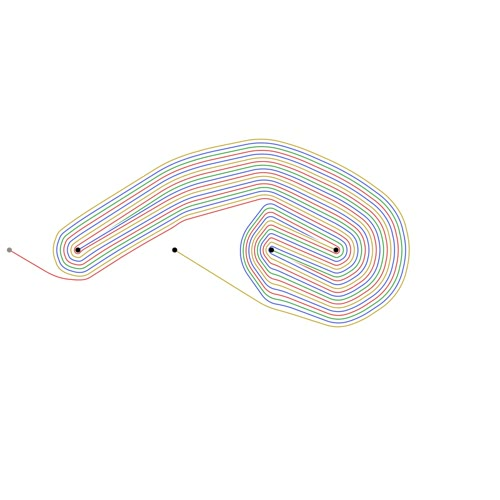
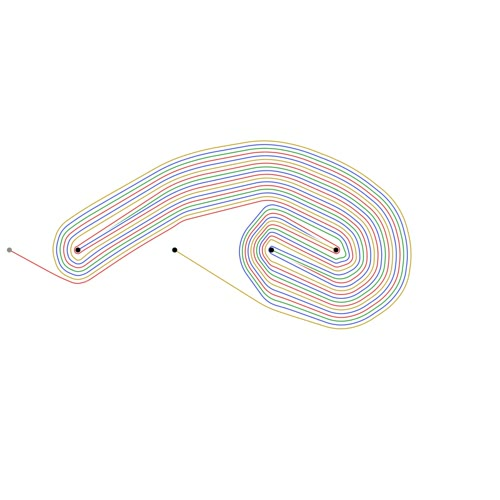
Bossage des rubans : sinus de traversée mesuré à distance
Dans un éventail de triangles très minces, le sinus mesuré avec les voisins
immédiats était bruité et sous-estimé : l'écart le long de l'arête gonflait et
les brins faisaient des marches. Film.tend(..., portee_sinus) le mesure avec
des points du brin à au moins cette distance (3 × l'écart dans Arcs.py) ;
alignement inchangé. Film des méandres inchangé (option à 0 par défaut).
Films et aperçus des arcs régénérés.

Changed region(s): [[0.03, 0.27, 0.84, 0.66]]

diff --git a/programmes/Triangulation.py b/programmes/Triangulation.py
@@ -264,7 +264,7 @@ class Film:
         i1, i2 = haut[0], haut[-1]
         return [(range(1, i1), passage(i1 - 1, i1)), (range(i2 + 1, len(pts) - 1), passage(i2 + 1, i2))]
 
-    def tend(self, taux, ecart, degagement=None):
+    def tend(self, taux, ecart, degagement=None, portee_sinus=0):
         '''Un pas de tension des lacets. Chaque point est tiré, d'une fraction taux du chemin, vers sa cible sur son
         arête : l'endroit où ses deux voisins sont alignés avec lui (le brin se tend). Puis, arête par arête,
         les points gardent leur ordre et restent à `ecart` pixels les uns des autres perpendiculairement aux brins
@@ -272,11 +272,16 @@ class Film:
         défaut ecart) pixels des sommets (projection d'une régression monotone bornée), moins si l'arête est trop
         courte.
         Les brins se tassent donc à écart fixe là où ils sont tirés, près des trous, et laissent du vide au-delà ;
-        l'ordre sur chaque arête ne change pas, donc aucun croisement.'''
+        l'ordre sur chaque arête ne change pas, donc aucun croisement.
+        portee_sinus : si elle est positive, le sinus de l'angle de traversée est mesuré avec les premiers points du
+        brin, de part et d'autre, à au moins `portee_sinus` pixels (l'alignement garde les voisins immédiats). Dans un
+        éventail de triangles très minces, les voisins immédiats sont à un ou deux pixels : la direction qu'ils donnent
+        est bruitée, le sinus sous-estimé, l'écart le long de l'arête gonfle et les brins font des marches.'''
         degagement = ecart if degagement is None else degagement
         pos = self.maillage.pos
         par_arete = {}
         for k, courbe in enumerate(self.courbes):
+            points = [self.maillage.position(n) for n in courbe] if portee_sinus > 0 else None
             for i, n in enumerate(courbe):
                 if n[0] != 'e': continue
                 u, v, w = n[1], n[2], n[3]
@@ -285,7 +290,15 @@ class Film:
                 den = croix(d, q - p)
                 cible = croix(p - pos[u], q - p) / den if abs(den) > 1e-9 else w
                 # sinus de l'angle sous lequel le brin traverse l'arête
-                sinus = abs(den) / max(math.hypot(*d) * math.hypot(*(q - p)), 1e-12)
+                if portee_sinus > 0:
+                    a = i - 1
+                    while a > 0 and math.hypot(*(points[a] - points[i])) < portee_sinus: a -= 1
+                    b = i + 1
+                    while b < len(courbe) - 1 and math.hypot(*(points[b] - points[i])) < portee_sinus: b += 1
+                    corde = points[b] - points[a]
+                    sinus = abs(croix(d, corde)) / max(math.hypot(*d) * math.hypot(*corde), 1e-12)
+                else:
+                    sinus = abs(den) / max(math.hypot(*d) * math.hypot(*(q - p)), 1e-12)
                 par_arete.setdefault((u, v), []).append((w + taux * (min(max(cible, 0), 1) - w), k, i, sinus))
         for (u, v), liste in par_arete.items():
             longueur = math.hypot(*(pos[v] - pos[u]))

diff --git a/programmes/Arcs.py b/programmes/Arcs.py
@@ -131,7 +131,7 @@ class FilmArcs(Film):
             self.geodesiques = Geodesiques(self)
             self.geodesiques.tend(tours=60)
         else:
-            for _ in range(100): self.tend(0.3, ecart)
+            for _ in range(100): self.tend(0.3, ecart, portee_sinus=3 * ecart)
 
     def places_au_temps(self, T):
         """Abscisses des n places de l'axe au temps T (T = k : image clé k)."""
@@ -159,7 +159,8 @@ class FilmArcs(Film):
             assert self.maillage.valide(), "triangle retourné : augmenter sous_pas"
             self.maillage.delaunay(self.courbes)
             if self.geodesiques: self.geodesiques.tend(tours=2, precision=1e-5)
-            else: self.tend(taux, self.ecart)
+            else: self.tend(taux, self.ecart, portee_sinus=3 * self.ecart) # sinus mesuré à distance : pas de marches dans
+                # les éventails de triangles minces (bossage)
             if rendu and pas % sous_pas == 0: rendu(self)
         self.places[i], self.places[i + 1] = b, a
         self.numero += 1
@@ -264,7 +265,7 @@ class DiagrammeCourbes(FilmArcs):
             self.geodesiques = Geodesiques(self)
             self.geodesiques.tend(tours=60)
         else:
-            for _ in range(100): self.tend(0.3, ecart)
+            for _ in range(100): self.tend(0.3, ecart, portee_sinus=3 * ecart)
 
     def mots(self):
         """Mot relu sur le ruban du premier arc (du point fixe au premier trou), qui est le lacet x_1 : la seule

diff --git a/pistes_film_conforme.md b/pistes_film_conforme.md
@@ -382,5 +382,13 @@ f_n le plus à gauche, f_1 le plus près du premier trou ; l'arc de f_k à m_k p
 x_k depuis le clou (arcs de départ en demi-ellipses emboîtées sous l'axe, intervalles [f_k, m_k] emboîtés). Mots
 relus justes après chaque lettre sur six tresses, dont la tresse chargée. Rien d'accroché en bas.
 
-**À examiner (remarque de l'utilisateur)** : `imgs/rubans/film_charge.mp4`, à la fin, hémisphère sud au niveau du
-troisième trou : un petit effet de bossage disgracieux sur les brins.
+**Bossage (remarque de l'utilisateur, réglé)** : `imgs/rubans/film_charge.mp4`, à la fin, au sud du troisième trou, les
+brins faisaient des marches. Sous ce trou, les arêtes qui descendent vers les trous fixes forment un éventail de
+triangles très minces ; un brin y a ses pieds à un ou deux pixels les uns des autres. La tension espace deux brins
+voisins d'écart / sinus le long d'une arête traversée en biais, et le sinus était mesuré avec les voisins immédiats :
+direction bruitée, sinus sous-estimé, écart gonflé, chaque brin poussé un peu plus loin que le précédent. Remède :
+`Film.tend(..., portee_sinus)` mesure le sinus avec les premiers points du brin à au moins cette distance (3 × l'écart
+dans `Arcs.py`), l'alignement gardant les voisins immédiats. Essais écartés : prendre aussi pour l'alignement des
+voisins à distance (autour d'un trou où les brins s'enroulent serré, ces voisins sont de l'autre côté du trou et
+tirent les brins par-dessus : dessin emmêlé) ; arrondir le dessin par Chaikin (le défaut est dans les pieds, pas dans
+le dessin). Le film des méandres garde l'ancien comportement (option à 0 par défaut, empreinte inchangée).
